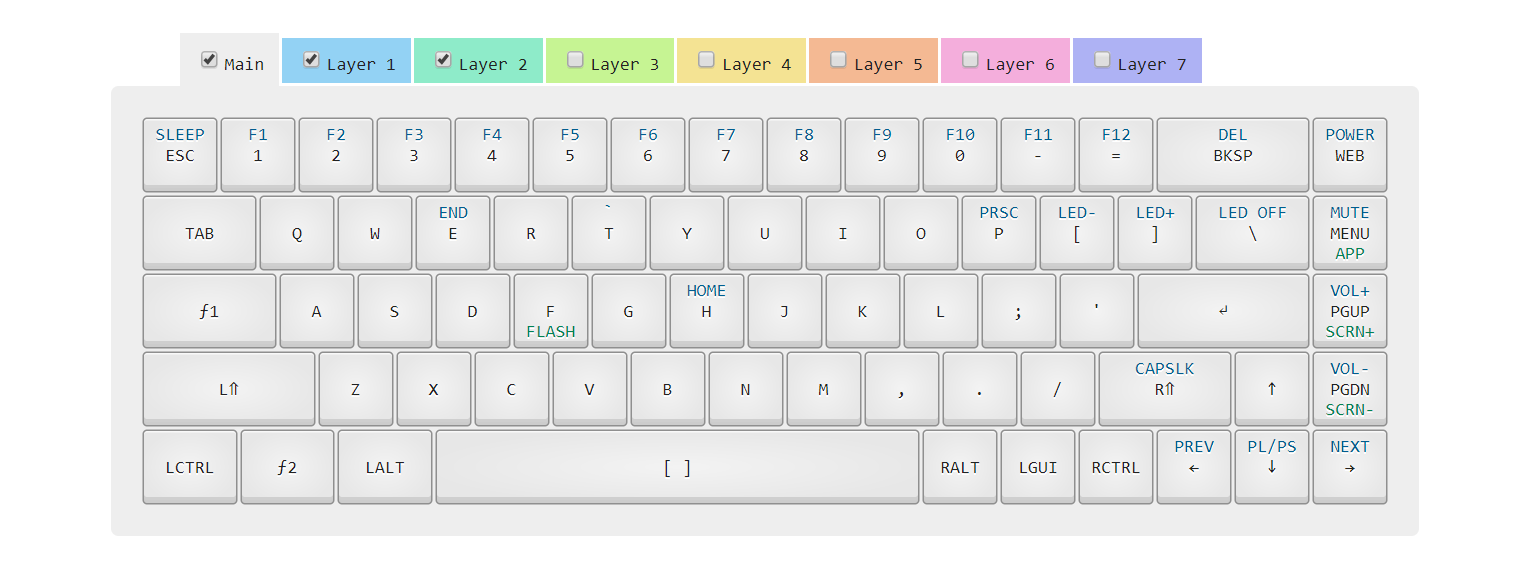
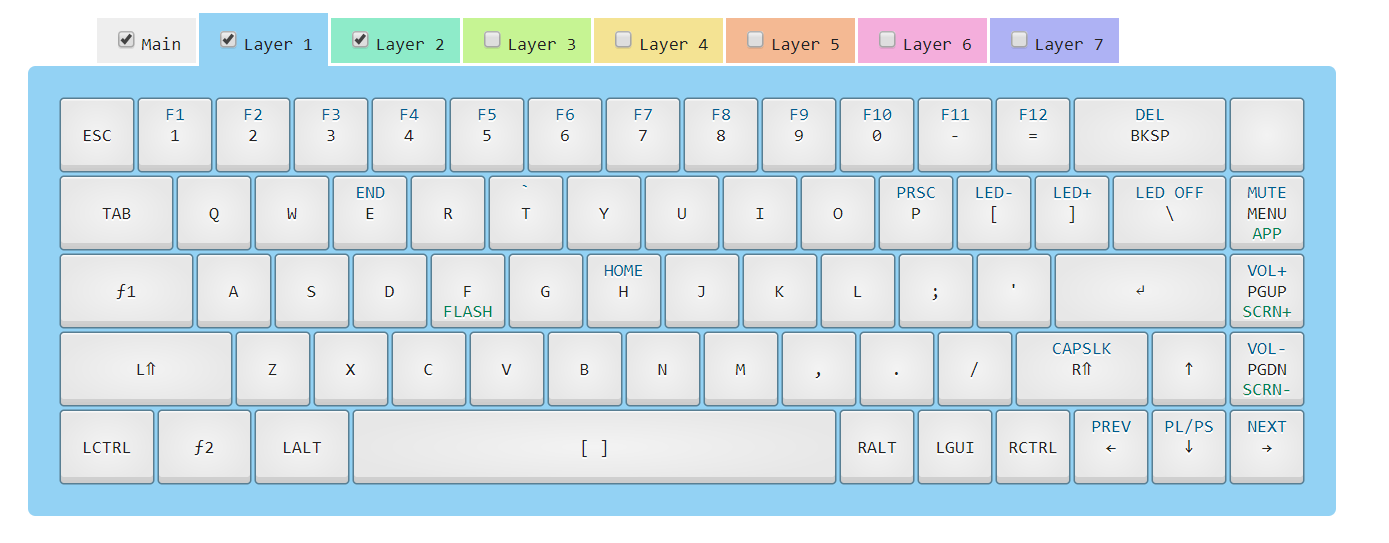
Update Layout - Web, Power, and Sleep removed as they were non-functional

diff --git a/README.md b/README.md
@@ -2,4 +2,9 @@
 
 Current layout.
 
+Top Right Key: 
+* [1] : `WIN + L`
+* [2] : `CTRL + ALT + DEL`
+* [3] : `None`
+
 ![configuration](assets/layout.png)
